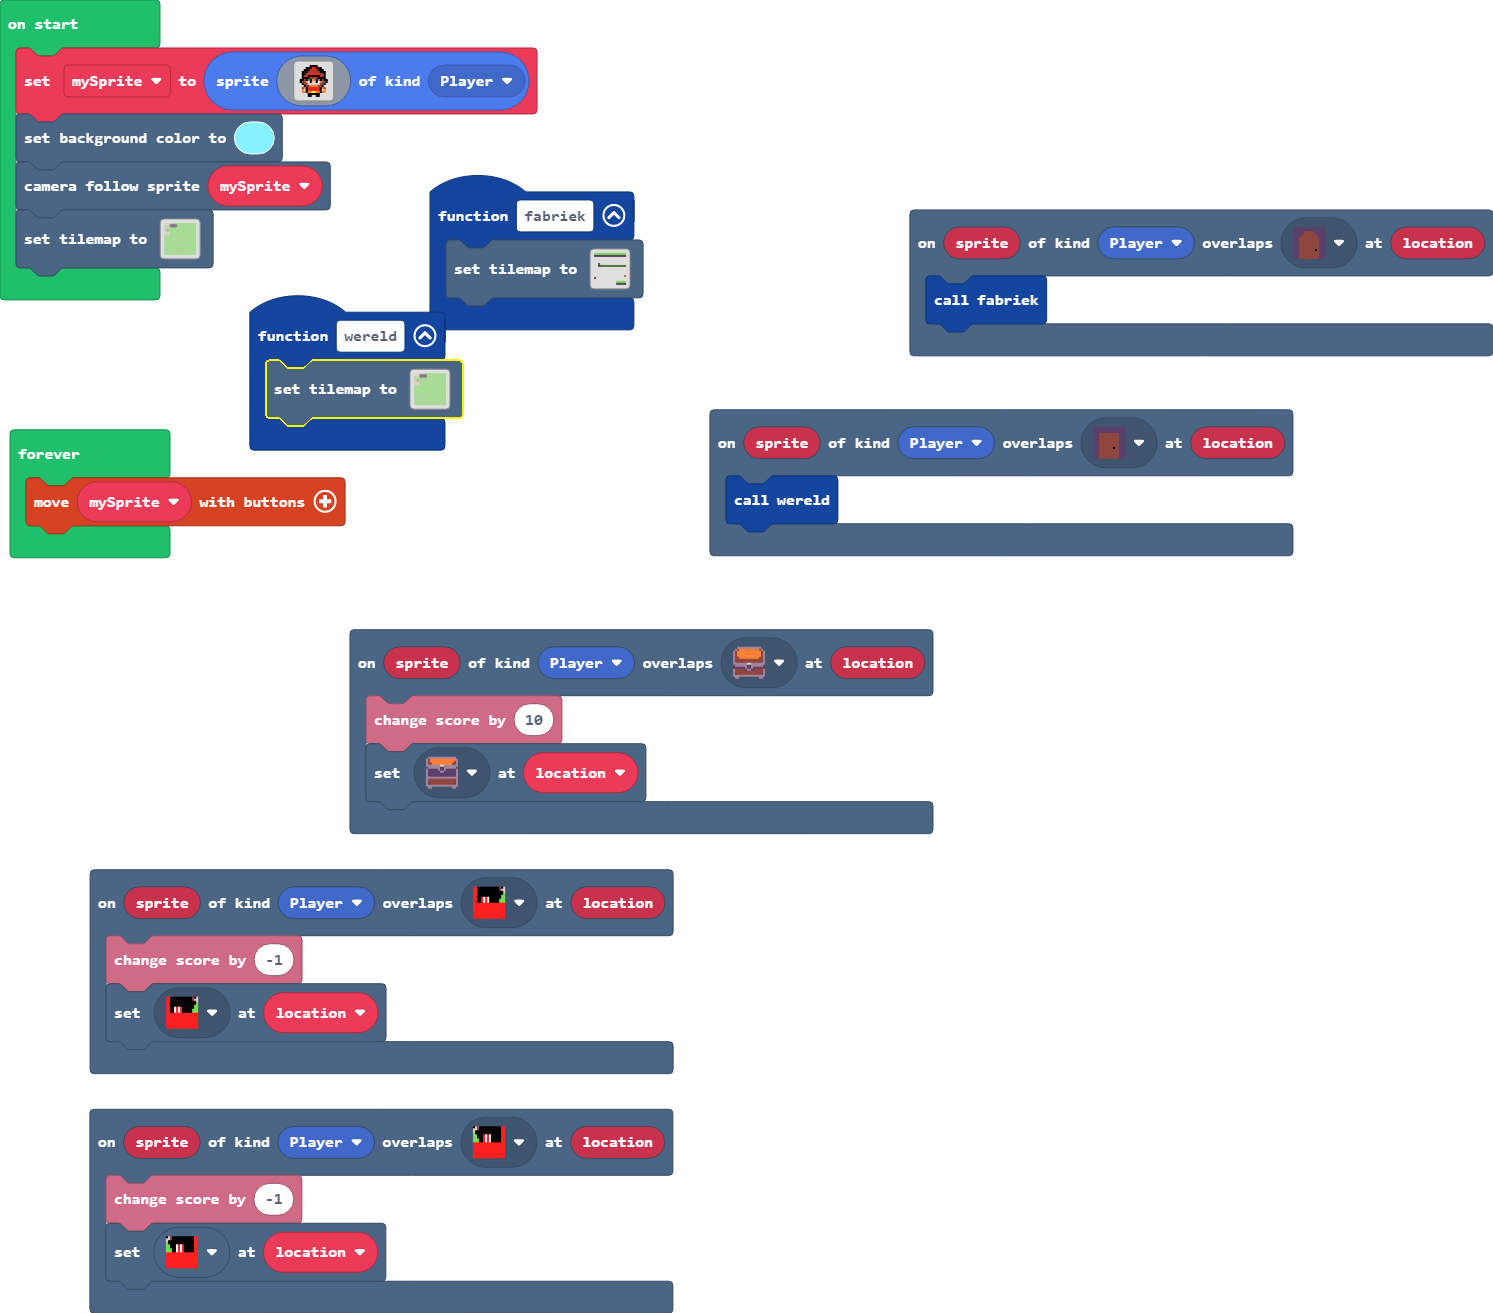
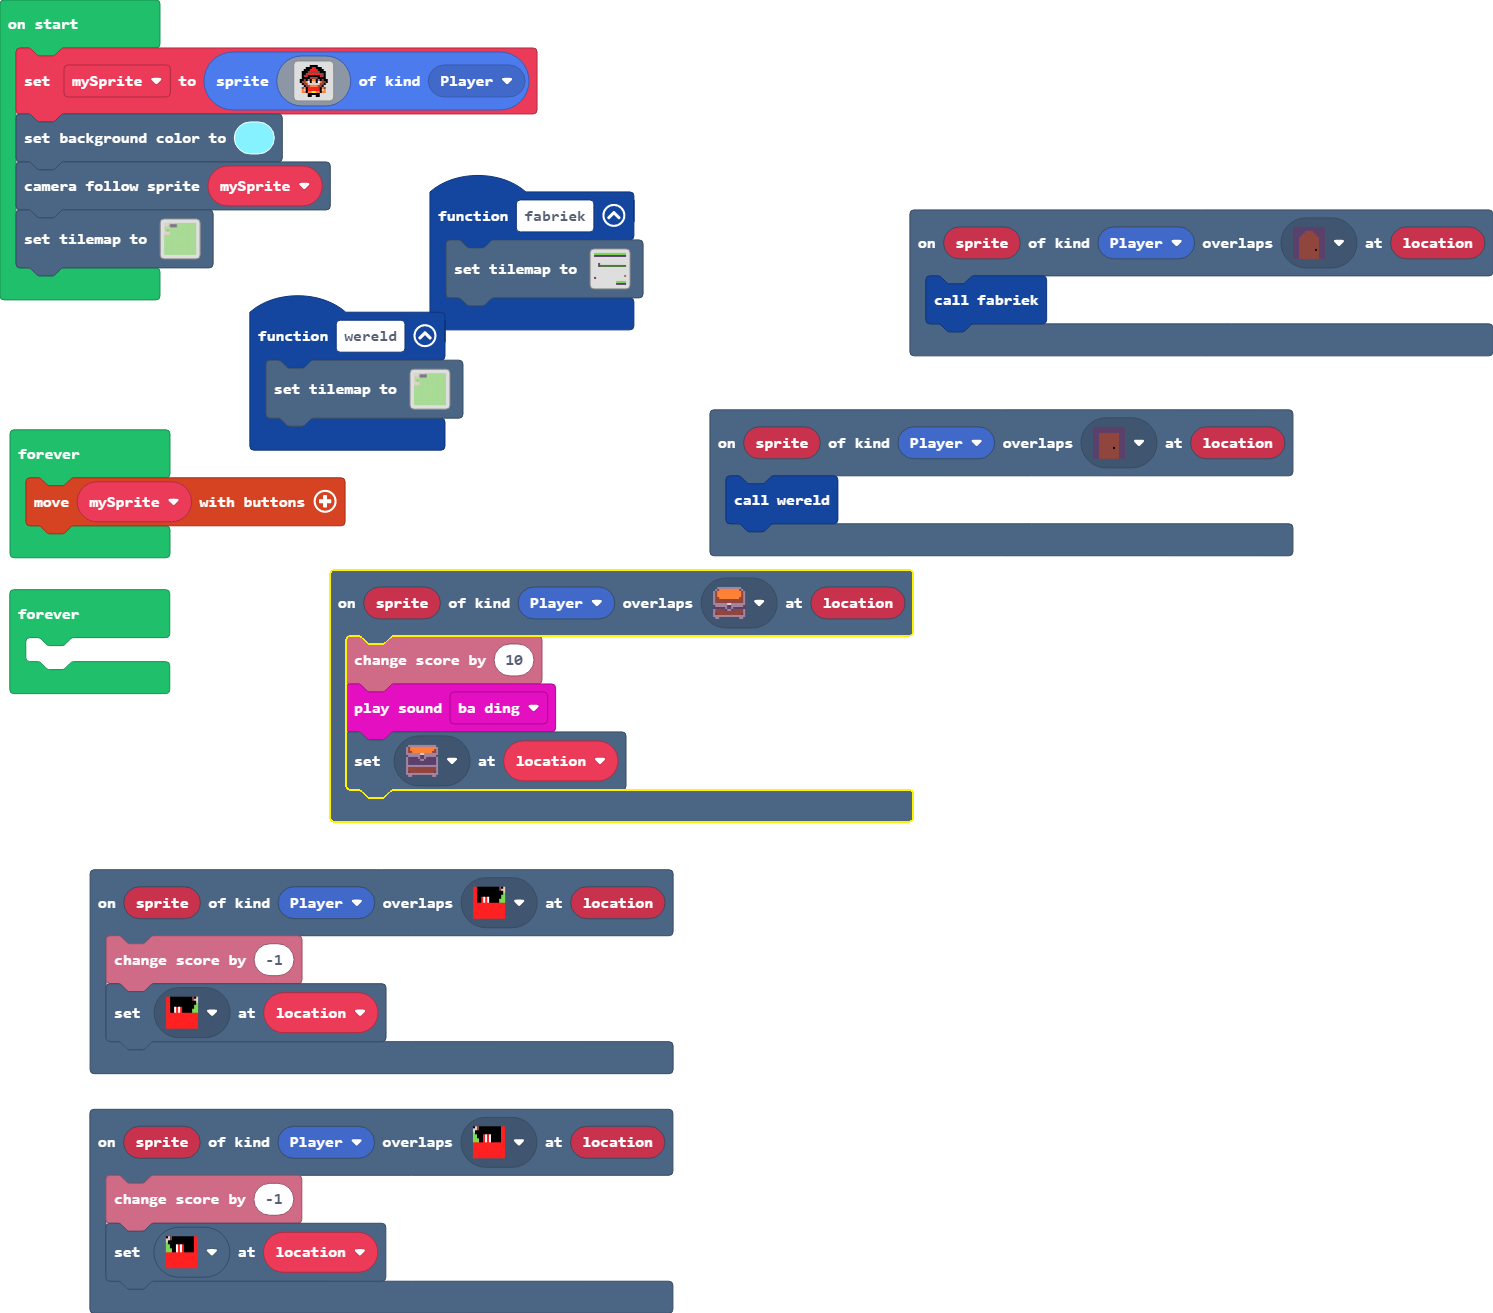
Update main.blocks, main.ts, tilemap.g.jres, tilemap.g.ts

Changed region(s): [[0.2157, 0.4059, 0.647, 0.6558], [0.0, 0.4372, 0.1232, 0.5308]]

diff --git a/tilemap.g.ts b/tilemap.g.ts
@@ -328,21 +328,40 @@ namespace myTiles {
 . . . . . . . . . . . . . . . . 
 . . . . . . . . . . . . . . . . 
 `, [myTiles.transparency16], TileScale.Sixteen);
+            case "level11":
+            case "level11":return tiles.createTilemap(hex`1000100000000000000000000000000000000000000000000000000000000000000000000000000000000000000000000000000000000000000000000000000000000000000000000000000000000000000000000000000000000000000000000000000000000000000000000000000000000000000000000000000000000000000000000000000000000000000000000000000000000000000000000000000000000000000000000000000000000000000000000000000000000000000000000000000000000000000000000000000000000000000000000000000000000000000000000000000000000000000000000000000000000000000000000000000000000000`, img`
+. . . . . . . . . . . . . . . . 
+. . . . . . . . . . . . . . . . 
+. . . . . . . . . . . . . . . . 
+. . . . . . . . . . . . . . . . 
+. . . . . . . . . . . . . . . . 
+. . . . . . . . . . . . . . . . 
+. . . . . . . . . . . . . . . . 
+. . . . . . . . . . . . . . . . 
+. . . . . . . . . . . . . . . . 
+. . . . . . . . . . . . . . . . 
+. . . . . . . . . . . . . . . . 
+. . . . . . . . . . . . . . . . 
+. . . . . . . . . . . . . . . . 
+. . . . . . . . . . . . . . . . 
+. . . . . . . . . . . . . . . . 
+. . . . . . . . . . . . . . . . 
+`, [myTiles.transparency16], TileScale.Sixteen);
             case "level3":
[1 lines of base64/hex data omitted]
 ..................................................
-..................................................
-..................................................
-..................................................
-..................................................
-..................................................
-..................................................
-..................................................
-..................................................
-..................................................
-..................................................
-..................................................
-..................................................
+........2222222222................................
+........222222222222..............................
+........222222222222..............................
+........222222222222..............................
+..2..222222222222222..............................
+..2.......2222222222..............................
+..2...............................................
+..22222222........................................
+..22222222........................................
+..22222222........................................
+..22222222........................................
+..222..222........................................
 ..................................................
 ..................................................
 ..................................................
@@ -381,25 +400,6 @@ namespace myTiles {
 ..................................................
 ..................................................
 `, [myTiles.transparency16,sprites.castle.tileGrass2,sprites.castle.tilePath4,sprites.castle.tilePath1,sprites.castle.tilePath6,sprites.castle.tilePath2,sprites.castle.tilePath3,sprites.castle.tilePath7,sprites.castle.tilePath9,sprites.castle.tilePath8,sprites.castle.tilePath5,myTiles.tile13,myTiles.tile22,myTiles.tile24,myTiles.tile20,myTiles.tile19,myTiles.tile21,myTiles.tile18,myTiles.tile34], TileScale.Sixteen);
-            case "level11":
-            case "level11":return tiles.createTilemap(hex`1000100000000000000000000000000000000000000000000000000000000000000000000000000000000000000000000000000000000000000000000000000000000000000000000000000000000000000000000000000000000000000000000000000000000000000000000000000000000000000000000000000000000000000000000000000000000000000000000000000000000000000000000000000000000000000000000000000000000000000000000000000000000000000000000000000000000000000000000000000000000000000000000000000000000000000000000000000000000000000000000000000000000000000000000000000000000000`, img`
-. . . . . . . . . . . . . . . . 
-. . . . . . . . . . . . . . . . 
-. . . . . . . . . . . . . . . . 
-. . . . . . . . . . . . . . . . 
-. . . . . . . . . . . . . . . . 
-. . . . . . . . . . . . . . . . 
-. . . . . . . . . . . . . . . . 
-. . . . . . . . . . . . . . . . 
-. . . . . . . . . . . . . . . . 
-. . . . . . . . . . . . . . . . 
-. . . . . . . . . . . . . . . . 
-. . . . . . . . . . . . . . . . 
-. . . . . . . . . . . . . . . . 
-. . . . . . . . . . . . . . . . 
-. . . . . . . . . . . . . . . . 
-. . . . . . . . . . . . . . . . 
-`, [myTiles.transparency16], TileScale.Sixteen);
         }
         return null;
     })

diff --git a/main.ts b/main.ts
@@ -17,6 +17,7 @@ scene.onOverlapTile(SpriteKind.Player, assets.tile`tile32`, function (sprite, lo
 })
 scene.onOverlapTile(SpriteKind.Player, assets.tile`tile43`, function (sprite, location) {
     info.changeScoreBy(10)
+    music.baDing.play()
     tiles.setTileAt(location, assets.tile`tile`)
 })
 scene.onOverlapTile(SpriteKind.Player, assets.tile`tile41`, function (sprite, location) {
@@ -45,4 +46,7 @@ scene.cameraFollowSprite(mySprite)
 tiles.setTilemap(tilemap`level3`)
 forever(function () {
     controller.moveSprite(mySprite)
+})
+forever(function () {
+	
 })
